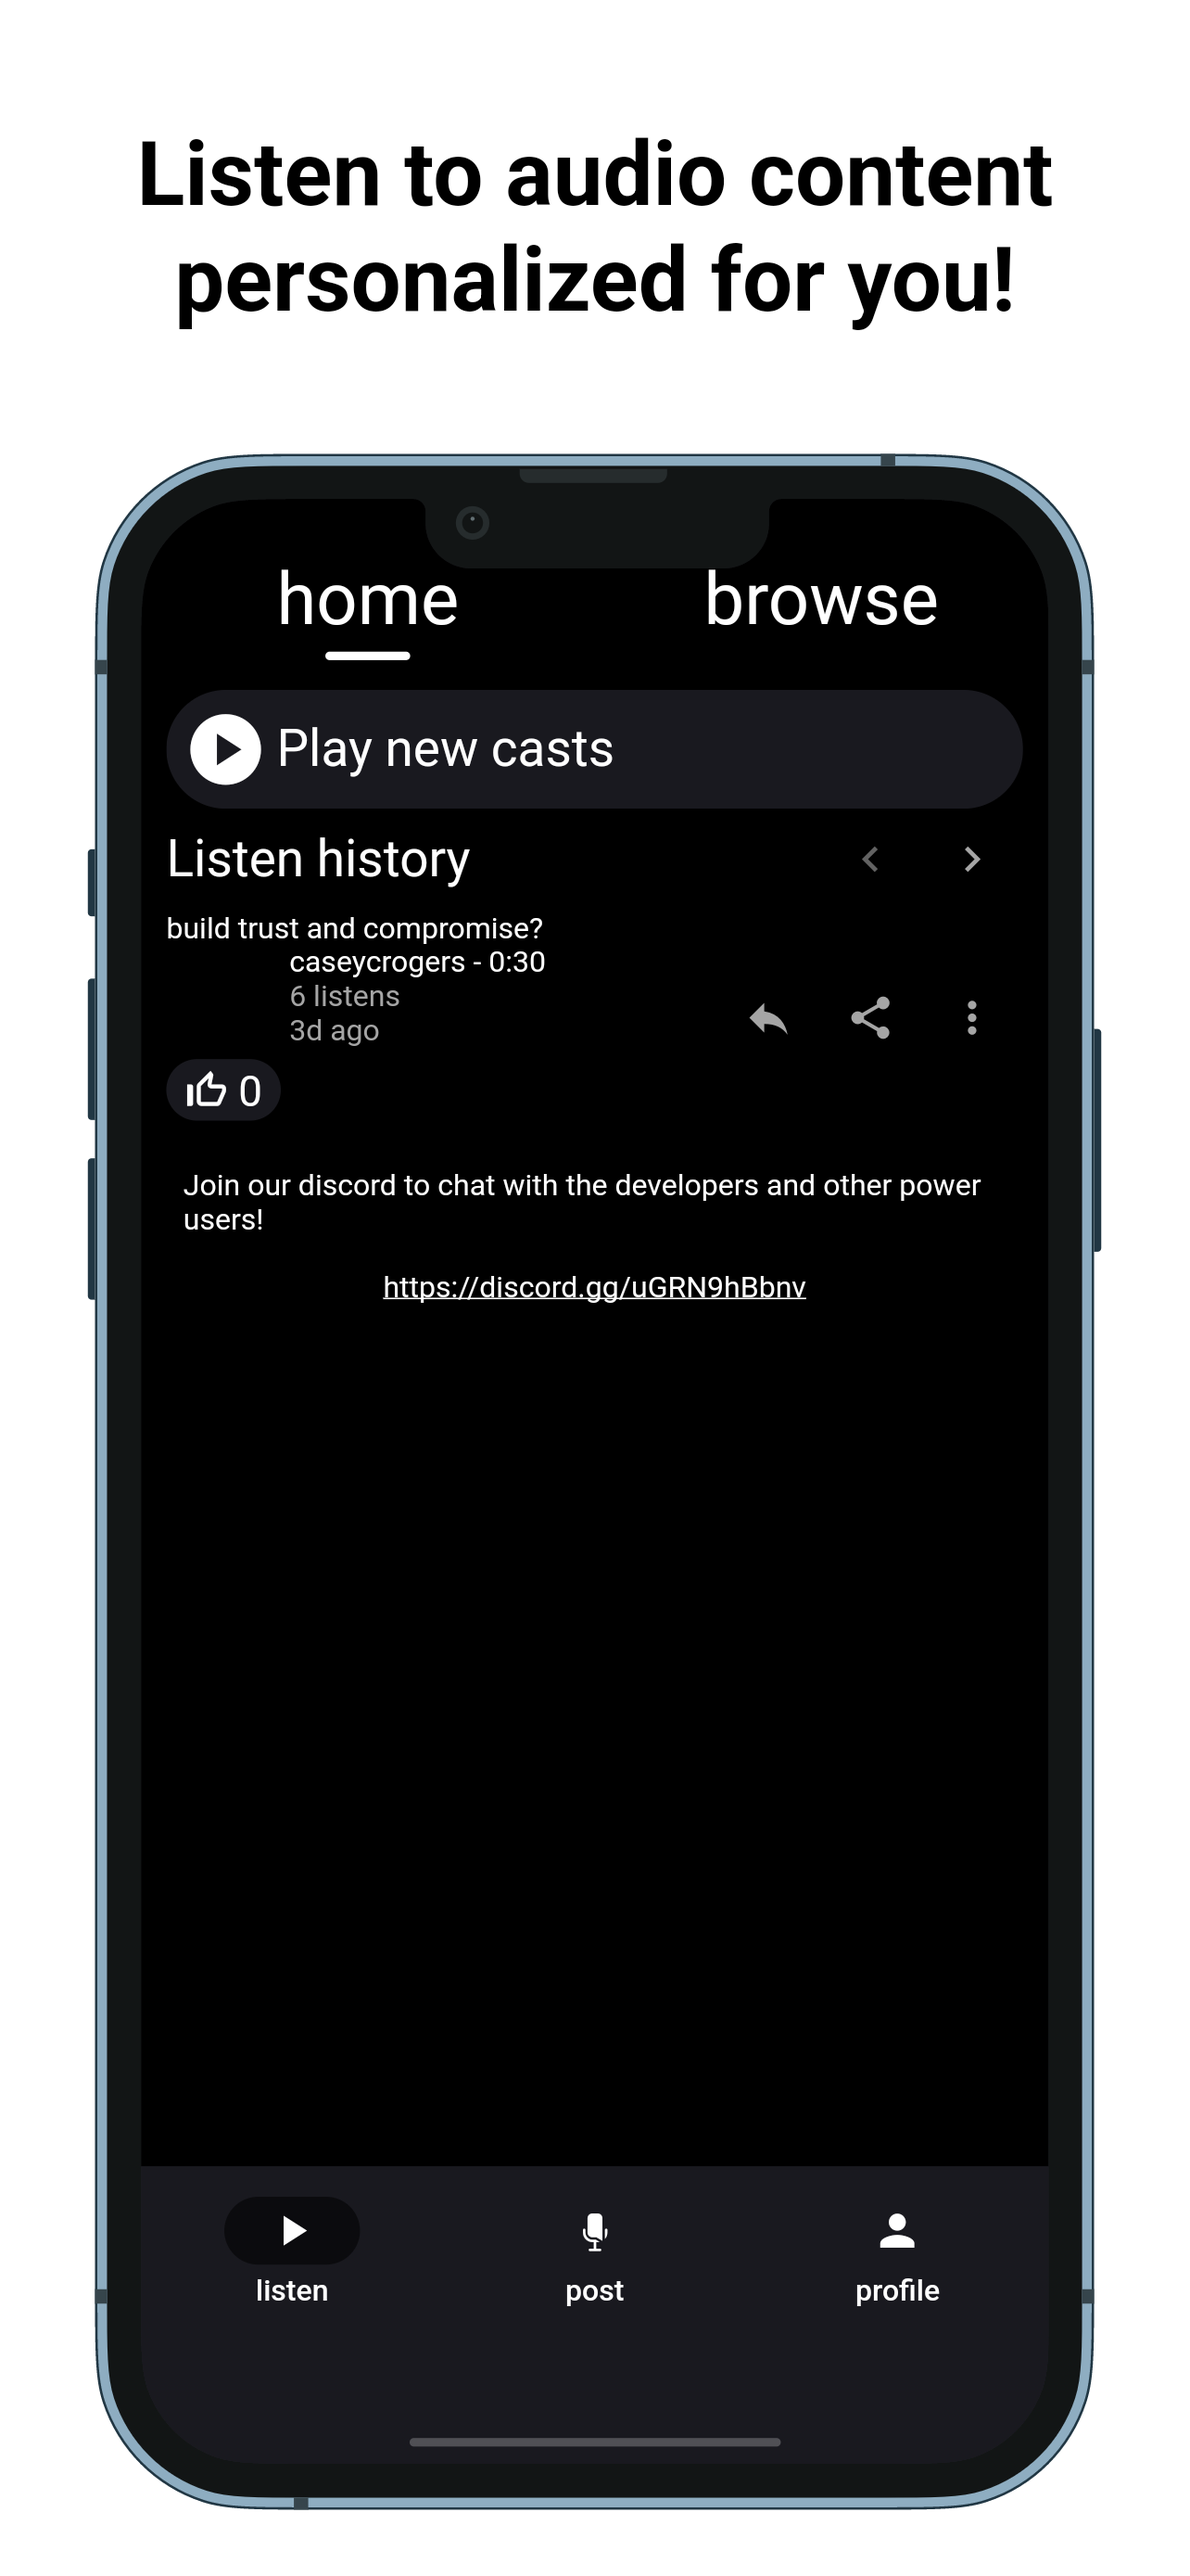
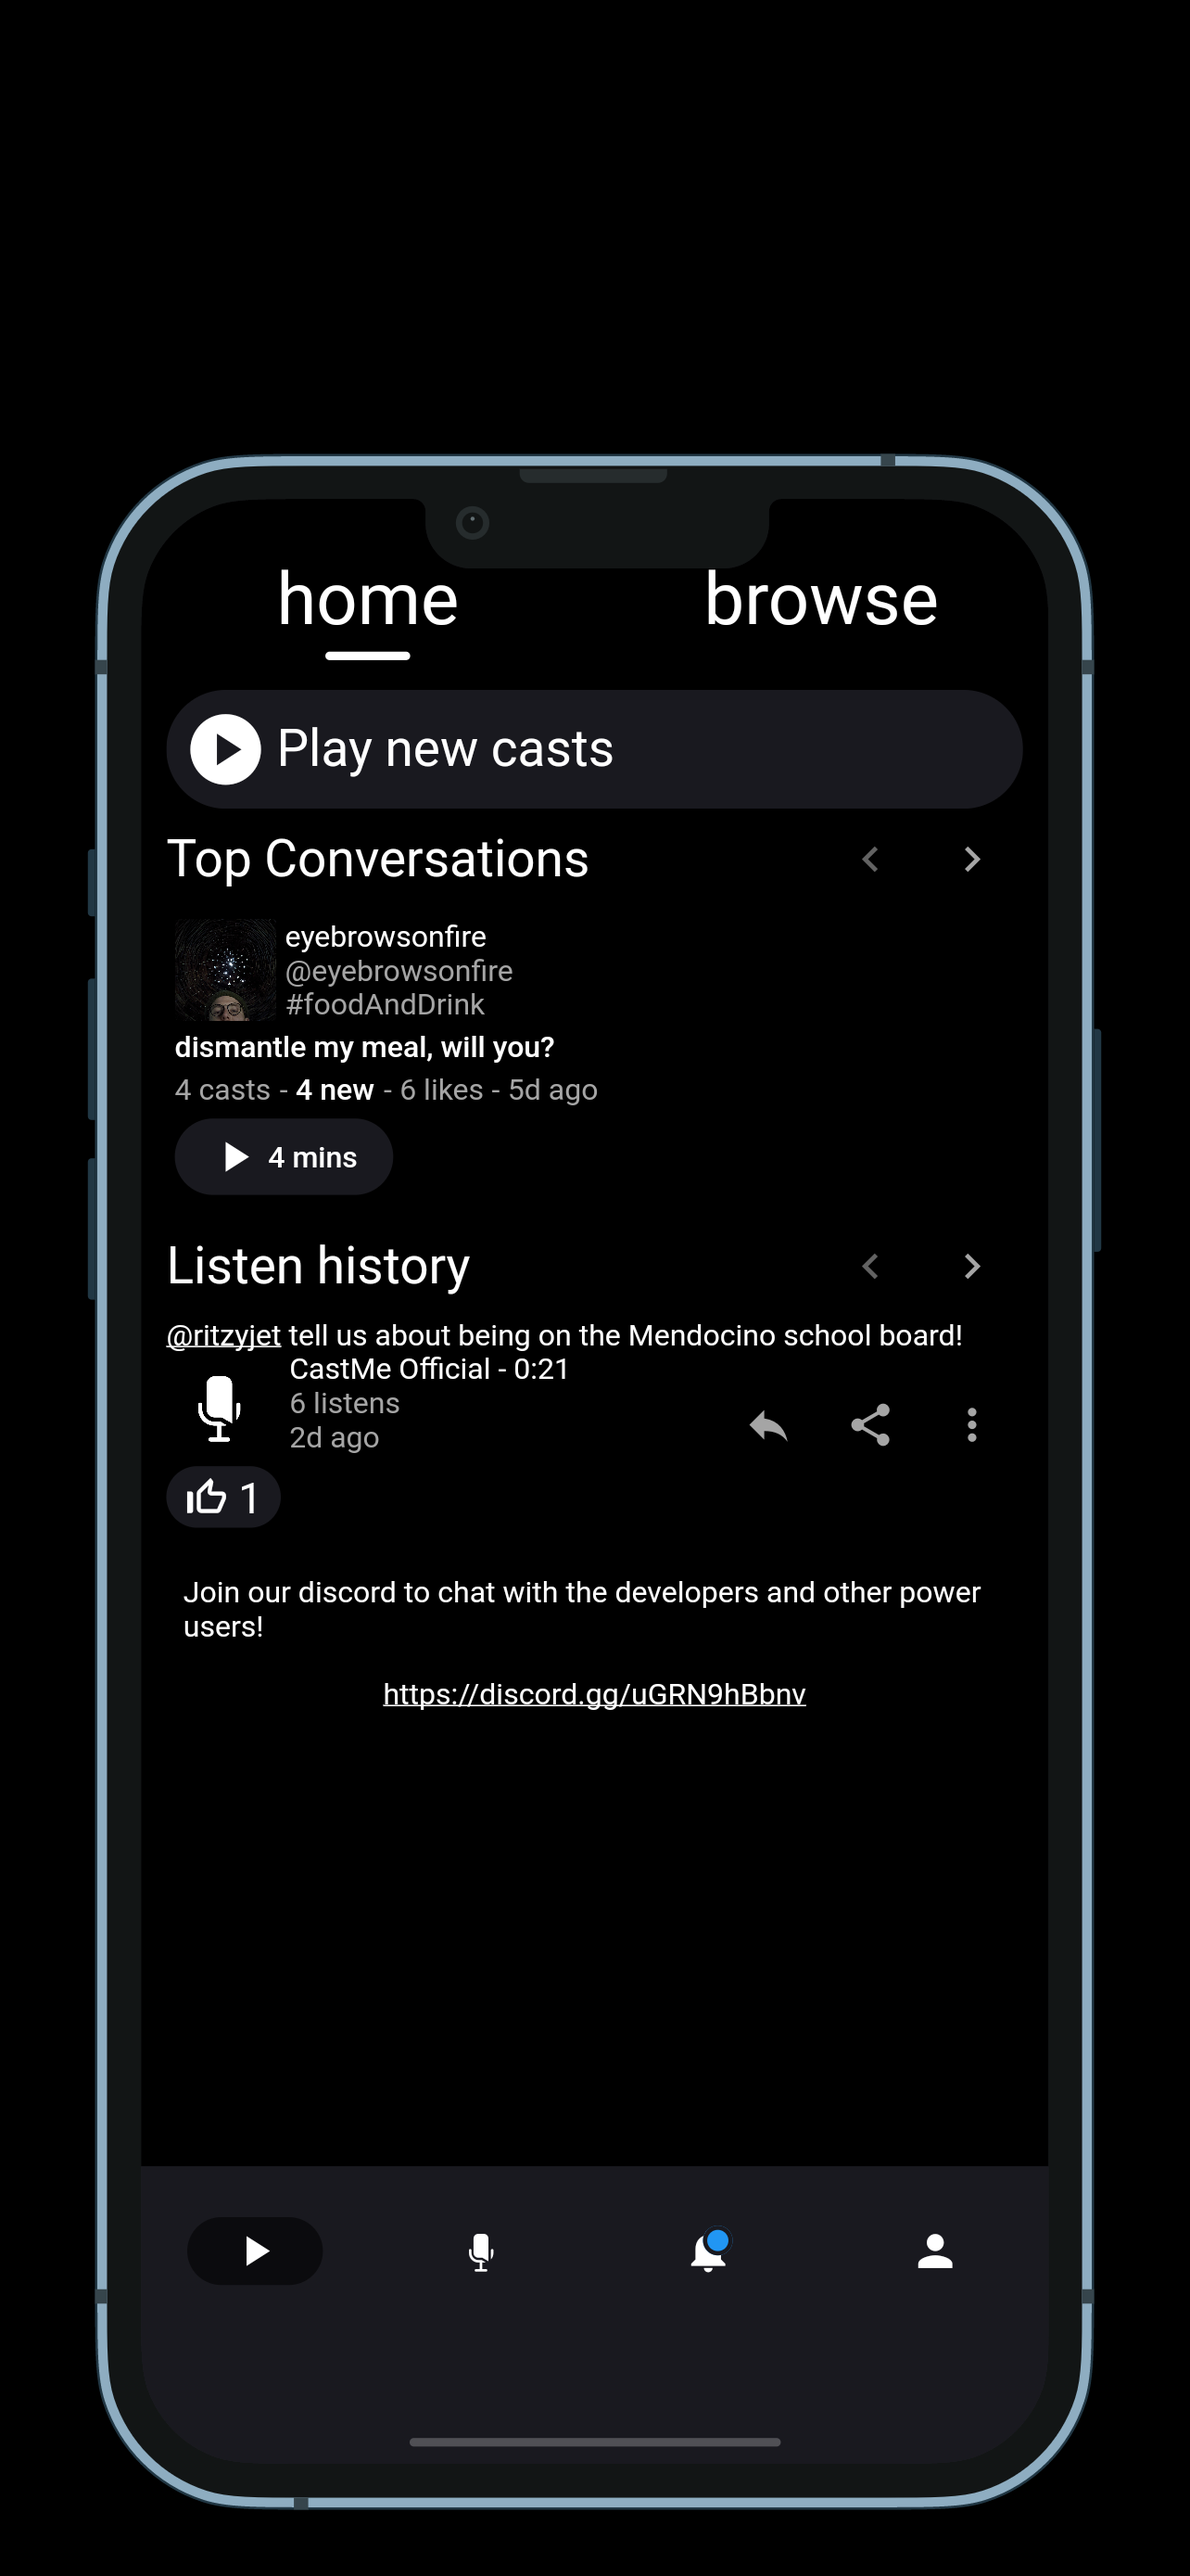
mino bug fixes

diff --git a/integration_test/screenshots.dart b/integration_test/screenshots.dart
@@ -4,9 +4,13 @@ import 'dart:io';
 
 import 'package:cast_me_app/business_logic/cast_me_bloc.dart';
 import 'package:cast_me_app/business_logic/clients/cast_audio_player.dart';
+import 'package:cast_me_app/business_logic/clients/cast_database.dart';
 import 'package:cast_me_app/business_logic/listen_bloc.dart';
 import 'package:cast_me_app/business_logic/models/cast_file.dart';
 import 'package:cast_me_app/business_logic/models/cast_me_tab.dart';
+import 'package:cast_me_app/business_logic/models/serializable/conversation.dart';
+import 'package:cast_me_app/business_logic/models/serializable/profile.dart';
+import 'package:cast_me_app/business_logic/models/serializable/topic.dart';
 import 'package:cast_me_app/business_logic/post_bloc.dart';
 import 'package:cast_me_app/main.dart';
 import 'package:cast_me_app/screenshot_template.dart';
@@ -30,6 +34,7 @@ Future<void> main() async {
     await initialize();
     await initializeAuth();
     await FirebaseAnalytics.instance.setAnalyticsCollectionEnabled(false);
+    CastDatabase.overrideWithMock(MockCastDatabase());
   }
 
   // Needs to be `late` because we can't call `_initialize` until we're in a
@@ -61,46 +66,46 @@ Future<void> main() async {
         outputWidth: 1284,
         outputHeight: 2778,
       ),
-      ScreenshotConfig(
-        category: '5.8',
-        device: Devices.ios.iPhone13,
-        outputWidth: 1170,
-        outputHeight: 2532,
-      ),
-      ScreenshotConfig(
-        category: '5.5',
-        // Technically not the correct device but it's the same aspect ratio.
-        device: Devices.ios.iPhoneSE,
-        outputWidth: 1242,
-        outputHeight: 2208,
-      ),
-      ScreenshotConfig(
-        category: '12.9 gen2',
-        device: Devices.ios.iPad12InchesGen2,
-        outputHeight: 2732,
-        outputWidth: 2048,
-      ),
-      ScreenshotConfig(
-        category: '12.9 gen4',
-        device: Devices.ios.iPad12InchesGen4,
-        outputHeight: 2732,
-        outputWidth: 2048,
-      ),
+      //ScreenshotConfig(
+      //  category: '5.8',
+      //  device: Devices.ios.iPhone13,
+      //  outputWidth: 1170,
+      //  outputHeight: 2532,
+      //),
+      //ScreenshotConfig(
+      //  category: '5.5',
+      //  // Technically not the correct device but it's the same aspect ratio.
+      //  device: Devices.ios.iPhoneSE,
+      //  outputWidth: 1242,
+      //  outputHeight: 2208,
+      //),
+      //ScreenshotConfig(
+      //  category: '12.9 gen2',
+      //  device: Devices.ios.iPad12InchesGen2,
+      //  outputHeight: 2732,
+      //  outputWidth: 2048,
+      //),
+      //ScreenshotConfig(
+      //  category: '12.9 gen4',
+      //  device: Devices.ios.iPad12InchesGen4,
+      //  outputHeight: 2732,
+      //  outputWidth: 2048,
+      //),
       // Android.
-      ScreenshotConfig(
-        category: '',
-        device: Devices.android.onePlus8Pro,
-        outputHeight: 3168,
-        outputWidth: 1440,
-      ),
-      ScreenshotConfig(
-        category: '10',
-        device: Devices.android.largeTablet,
-      ),
-      ScreenshotConfig(
-        category: '7',
-        device: Devices.android.mediumTablet,
-      ),
+      //ScreenshotConfig(
+      //  category: '',
+      //  device: Devices.android.onePlus8Pro,
+      //  outputHeight: 3168,
+      //  outputWidth: 1440,
+      //),
+      //ScreenshotConfig(
+      //  category: '10',
+      //  device: Devices.android.largeTablet,
+      //),
+      //ScreenshotConfig(
+      //  category: '7',
+      //  device: Devices.android.mediumTablet,
+      //),
     ]) {
       String screenshotName(String suffix) {
         return jsonEncode(
@@ -126,7 +131,7 @@ Future<void> main() async {
             await callback(tester);
             final String sanitizedName =
                 name.toLowerCase().replaceAll(' ', '_');
-            await tester.pump(const Duration(milliseconds: 1000));
+            await tester.pumpFor(100);
             await binding.takeScreenshot(
               screenshotName('$i-$sanitizedName'),
             );
@@ -143,7 +148,7 @@ Future<void> main() async {
             locale: locale,
           ),
         );
-        await tester.pump(const Duration(milliseconds: 100));
+        await tester.pumpFor(100);
         await tester.pumpAndSettle();
       });
 
@@ -160,7 +165,7 @@ Future<void> main() async {
         unawaited(ListenBloc.instance.onListenPageChanged(1));
         // Pump a little bit so pump and settle doesn't short circuit the page
         // change.
-        await tester.pump(const Duration(milliseconds: 100));
+        await tester.pumpFor(100);
         await tester.pumpAndSettle();
       });
 
@@ -185,9 +190,49 @@ Future<void> main() async {
         CastMeBloc.instance.onTabChanged(CastMeTab.post);
         // Pump a little bit so pump and settle doesn't short circuit the page
         // change.
-        await tester.pump(const Duration(milliseconds: 100));
+        await tester.pumpFor(100);
         await tester.pumpAndSettle();
       });
     }
+  }
+}
+
+extension ScreenshotUtils on WidgetTester {
+  Future<void> pumpFor(
+    int i, [
+    Duration? duration,
+    EnginePhase phase = EnginePhase.sendSemanticsUpdate,
+  ]) async {
+    for (int pumps = 0; pumps < i; pumps++) {
+      await pump(duration);
+    }
+  }
+}
+
+class MockCastDatabase extends CastDatabase {
+  late final Future<List<Conversation>> _handPickedConversations = Future.wait(
+    [
+      '9fecb8b7-d439-48e9-8cb8-a69e11264a88',
+      '2d4f2984-64b4-4abc-a447-321d08815801',
+      '219559bd-f42a-4473-925f-e2d64961d351',
+      '44e5424d-d807-43fb-b5a9-caac8c42e0ca',
+      '8331b763-8d83-46c9-874e-92f0b65daaac',
+      'fe72a0f0-d1f7-452e-94e3-22ef20511c27',
+      '8837dcd7-3ba3-4ab1-bbcd-b688d3712d9c',
+    ].map((id) {
+      return CastDatabase.instance.getConversation(id);
+    }),
+  );
+
+  @override
+  Stream<Conversation> getConversations({
+    Profile? filterProfile,
+    Profile? filterOutProfile,
+    List<Topic>? filterTopics,
+    // Only fetch conversations that have updates since last listen.
+    bool onlyUpdates = false,
+    int? limit,
+  }) async* {
+    yield* Stream.fromIterable(await _handPickedConversations);
   }
 }

diff --git a/lib/widgets/common/cast_view.dart b/lib/widgets/common/cast_view.dart
@@ -114,7 +114,7 @@ class CastPreview extends StatelessWidget {
                                 children: [
                                   PreviewThumbnail(
                                     imageUrl: cast.imageUrl,
-                                    username: cast.authorUsername,
+                                    displayName: cast.authorDisplayName,
                                     size: 50,
                                   ),
                                   const SizedBox(width: 8),
@@ -272,7 +272,10 @@ class CastView extends StatelessWidget {
             ),
           ),
           if (cast.externalUri != null)
-            ExternalLinkButton(uri: cast.externalUri!)
+            Align(
+              child: ExternalLinkButton(uri: cast.externalUri!),
+              alignment: Alignment.centerLeft,
+            )
           else
             const SizedBox(height: 8),
           const _CastTitleView(textAlign: TextAlign.center),
@@ -392,12 +395,12 @@ class PreviewThumbnail extends StatelessWidget {
   const PreviewThumbnail({
     super.key,
     required this.imageUrl,
-    required this.username,
+    required this.displayName,
     this.size,
   });
 
   final String? imageUrl;
-  final String username;
+  final String displayName;
   final double? size;
 
   @override
@@ -418,7 +421,7 @@ class PreviewThumbnail extends StatelessWidget {
                     ),
                   ),
                 )
-              : DefaultPicture(displayName: username),
+              : DefaultPicture(displayName: displayName),
         ),
       ),
     );
@@ -513,7 +516,7 @@ class CastConversationView extends StatelessWidget {
             children: [
               PreviewThumbnail(
                 imageUrl: rootCast.imageUrl,
-                username: rootCast.authorUsername,
+                displayName: rootCast.authorDisplayName,
               ),
               const SizedBox(width: 4),
               Dominant(

diff --git a/lib/widgets/notifications_page/notification_view.dart b/lib/widgets/notifications_page/notification_view.dart
@@ -54,7 +54,7 @@ class ReplyNotificationView extends StatelessWidget {
       icon: const Icon(Icons.reply, color: Colors.white),
       image: PreviewThumbnail(
         imageUrl: notification.data.replyCast.imageUrl,
-        username: notification.data.replyCast.authorUsername,
+        displayName: notification.data.replyCast.authorDisplayName,
       ),
       title: TappableUsernameText(
         notification.base.title,
@@ -84,7 +84,7 @@ class LikeNotificationView extends StatelessWidget {
         aspectRatio: 1,
         child: PreviewThumbnail(
           imageUrl: notification.data.profile.profilePictureUrl,
-          username: notification.data.profile.username,
+          displayName: notification.data.profile.displayName,
         ),
       ),
       title: TappableUsernameText(notification.base.title),
@@ -113,7 +113,7 @@ class TagNotificationView extends StatelessWidget {
         aspectRatio: 1,
         child: PreviewThumbnail(
           imageUrl: notification.data.cast.imageUrl,
-          username: notification.data.cast.authorUsername,
+          displayName: notification.data.cast.authorDisplayName,
         ),
       ),
       title: TappableUsernameText(notification.base.title),

diff --git a/lib/business_logic/clients/cast_database.dart b/lib/business_logic/clients/cast_database.dart
@@ -7,6 +7,7 @@ import 'package:crypto/crypto.dart';
 import 'package:ffmpeg_kit_flutter_audio/ffprobe_kit.dart';
 import 'package:ffmpeg_kit_flutter_audio/media_information.dart';
 import 'package:ffmpeg_kit_flutter_audio/media_information_session.dart';
+import 'package:flutter/foundation.dart';
 import 'package:supabase_flutter/supabase_flutter.dart';
 
 // Project imports:
@@ -22,9 +23,14 @@ import 'package:cast_me_app/util/object_utils.dart';
 import 'package:cast_me_app/util/string_utils.dart';
 
 class CastDatabase {
-  CastDatabase._();
+  // Non-final to allow for testing injection.
+  static CastDatabase _instance = CastDatabase();
 
-  static final CastDatabase instance = CastDatabase._();
+  static CastDatabase get instance => _instance;
+
+  @visibleForTesting
+  static void overrideWithMock(CastDatabase mockDatabase) =>
+      _instance = mockDatabase;
 
   Stream<Conversation> getCuratedConversations({
     // Only fetch conversations that have updates since last listen.

diff --git a/lib/pages/conversation_page_view.dart b/lib/pages/conversation_page_view.dart
@@ -90,14 +90,7 @@ class _LoadedPageContentState extends State<_LoadedPageContent> {
                   return ListenBloc.instance.selectedConversation.value!
                       .refresh()
                       .asStream()
-                      .flatMap(
-                    (_) {
-                      return ListenBloc.instance.selectedConversation.value!
-                          .conversation.value
-                          .asStream()
-                          .flatMap((c) => Stream.fromIterable(c.allCasts));
-                    },
-                  );
+                      .flatMap((c) => Stream.fromIterable(c.allCasts));
                 },
               ),
             ),

diff --git a/lib/screenshot_template.dart b/lib/screenshot_template.dart
@@ -23,9 +23,9 @@ Future<void> main() async {
       headerText: 'Join the town square!',
       config: ScreenshotConfig(
         category: '',
-        device: Devices.android.largeTablet,
+        device: Devices.ios.iPhone13ProMax,
       ),
-      locale: const Locale('es'),
+      locale: const Locale('en'),
     ),
   );
 }
@@ -138,7 +138,7 @@ class CastMeScreenshotTemplate extends StatelessWidget {
           ),
         ),
       ),
-      background: Container(color: Colors.white),
+      background: Container(color: Colors.black),
       screenshotConfig: config,
       child: const CastMeApp(),
     );

diff --git a/lib/pages/listen_page_view.dart b/lib/pages/listen_page_view.dart
@@ -29,6 +29,10 @@ class ListenPageView extends StatelessWidget {
       getDepth: (selection) => selection == null ? 0 : 1,
       transitionsBuilder: subPageTransition,
       transitionDuration: const Duration(milliseconds: 100),
+      initialHistory: [
+        // Ensure there is always a base page.
+        const ValueHistoryEntry(0, null),
+      ],
       builder: (context, selectedConversation, animation, secondaryAnimation) {
         if (selectedConversation != null) {
           return ConversationPageView(

diff --git a/lib/business_logic/listen_bloc.dart b/lib/business_logic/listen_bloc.dart
@@ -201,9 +201,11 @@ class SelectedConversation {
 
   final ValueNotifier<Future<Conversation>> _conversation;
 
-  Future<void> refresh() async {
-    _conversation.value = _getConversation(id);
-    await _conversation.value;
+  Future<Conversation> refresh() async {
+    // Save locally and return to avoid race conditions.
+    final Future<Conversation> result = _getConversation(id);
+    _conversation.value = result;
+    return result;
   }
 
   static Future<Conversation> _getConversation(String id) {
